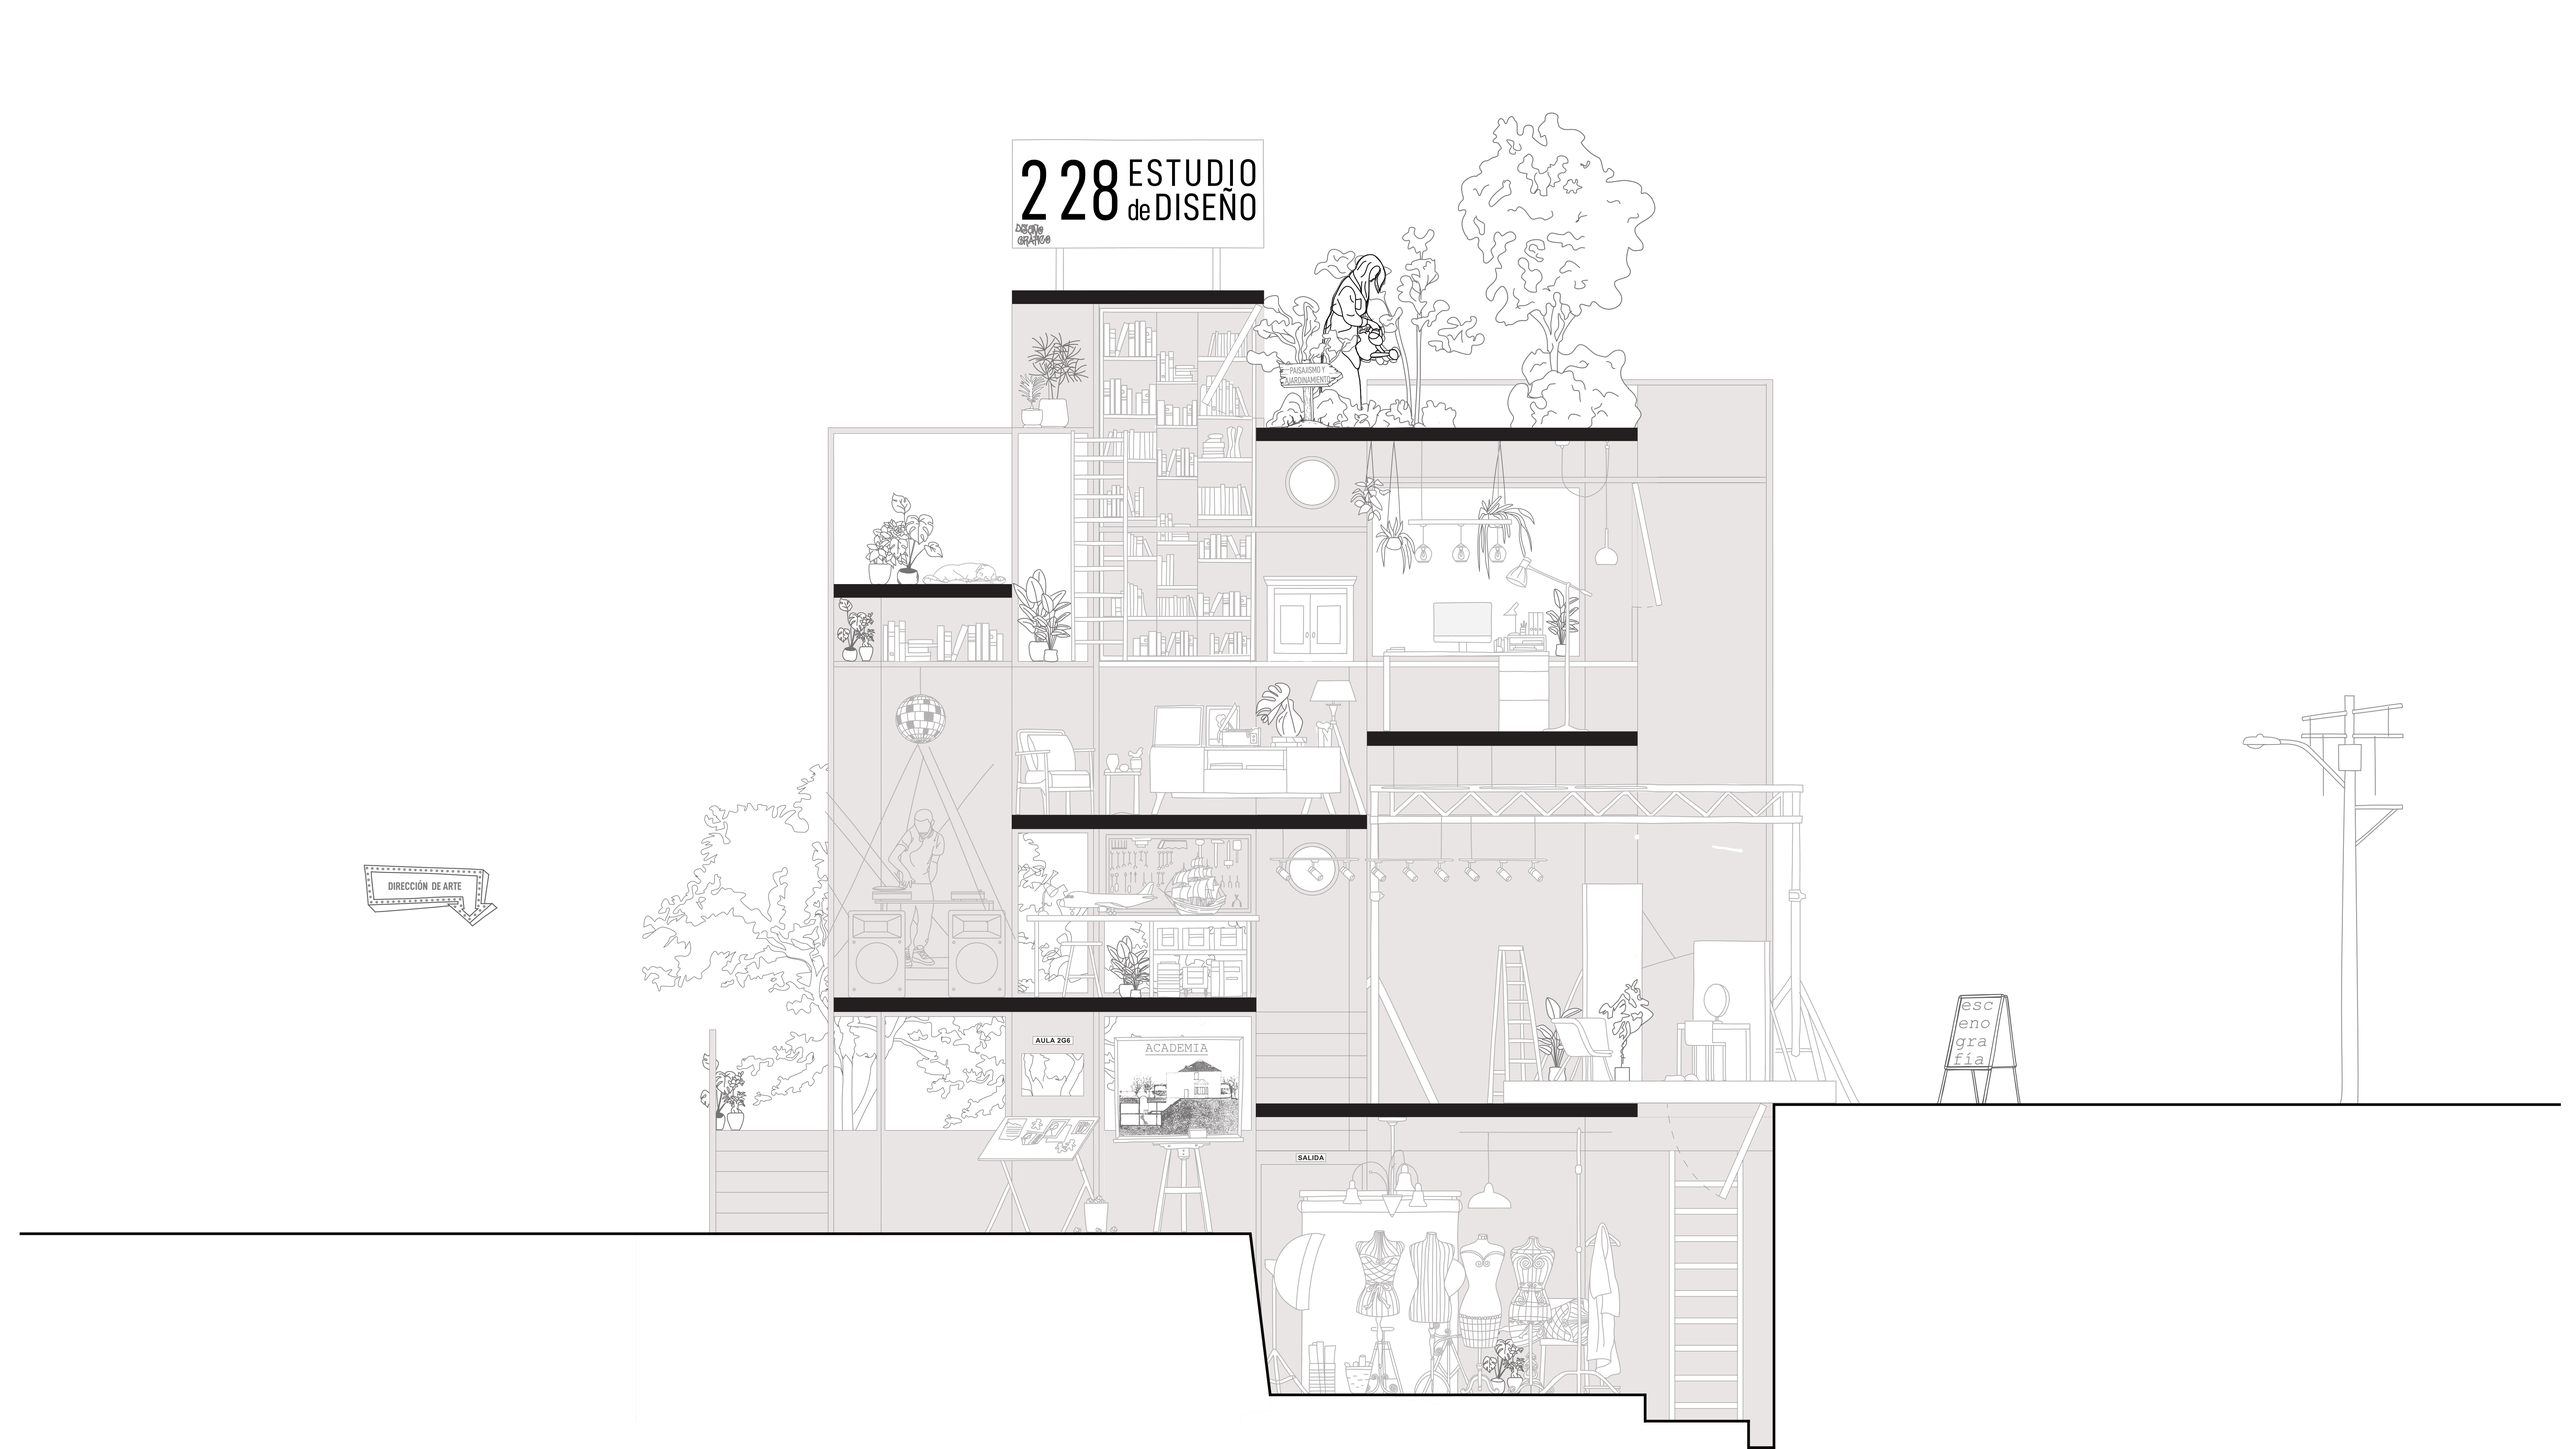
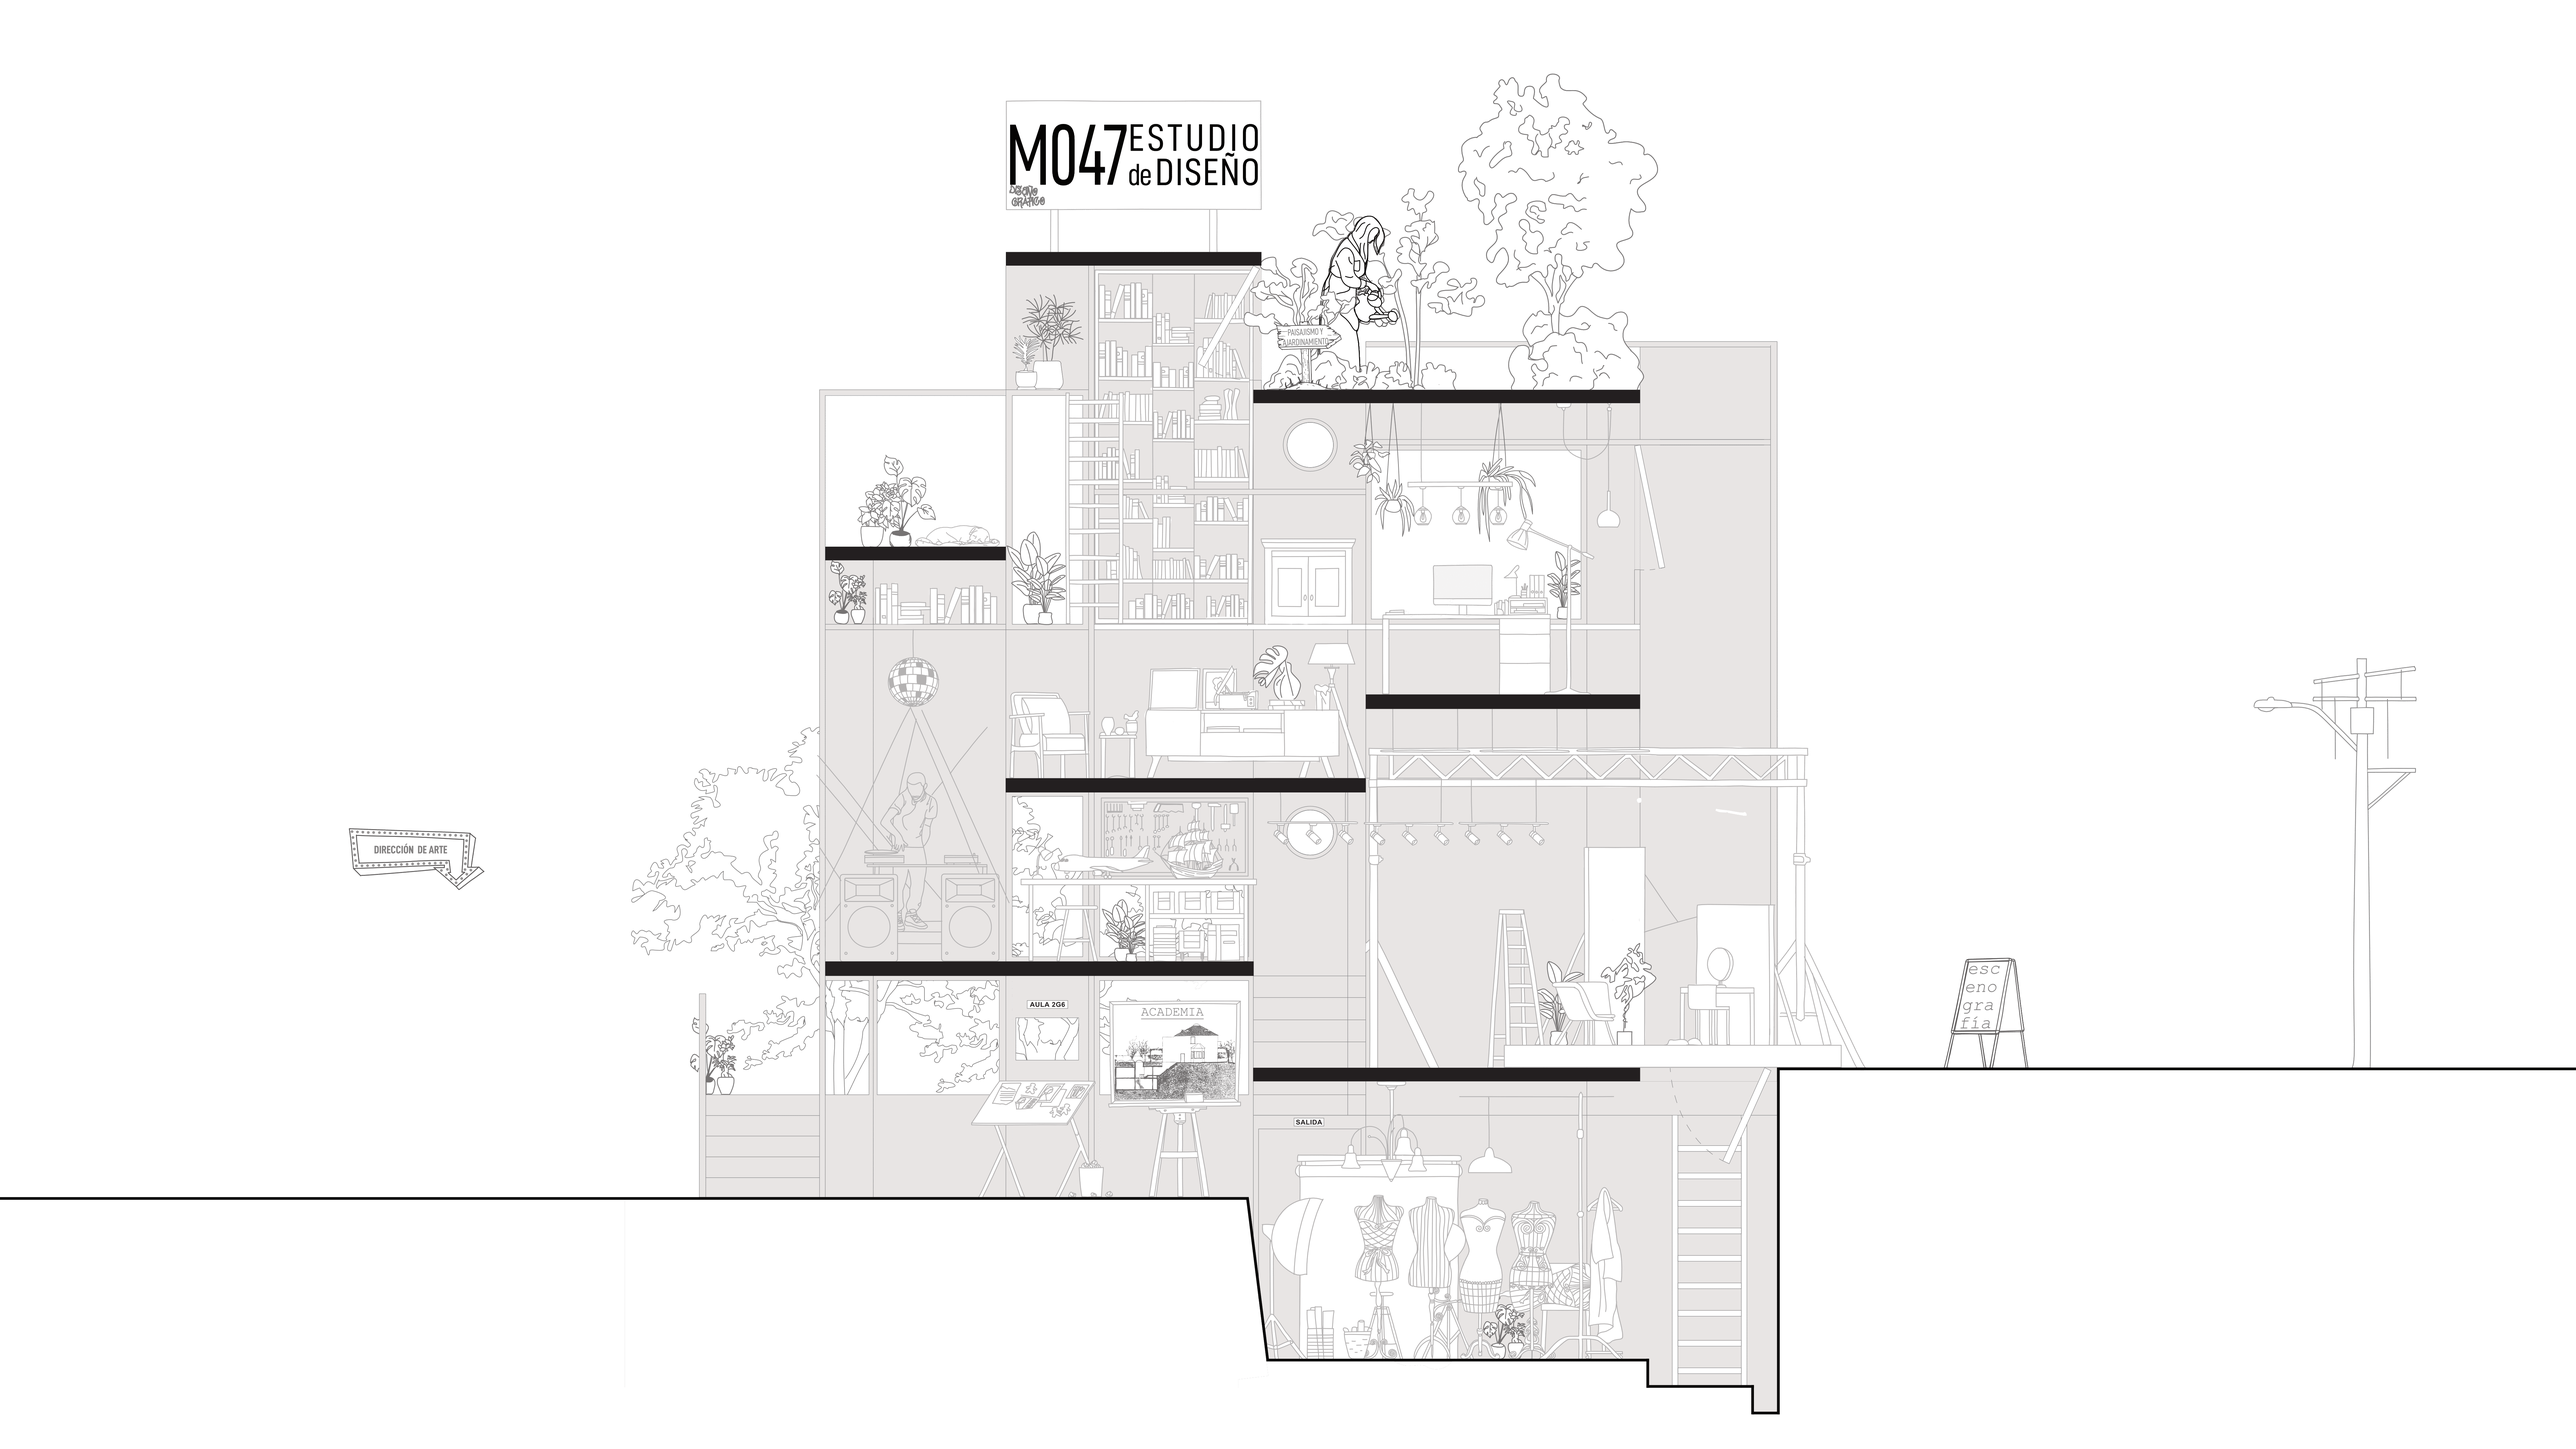
fondo

diff --git a/src/App.jsx b/src/App.jsx
@@ -1479,7 +1479,7 @@ export default function App() {
       onPointerLeave: handleOrdenadorLeave,
       src: ordenadorFrames[0],
       alt: 'Ordenador animado',
-      style: { left: '57%', top: '52.9%', width: '6.5%' },
+      style: { left: '57%', top: '53%', width: '6.5%' },
     },
     {
       id: 'arbol',
@@ -1504,7 +1504,7 @@ export default function App() {
       imageRef: grafitiImageRef,
       src: grafitiFrames[0],
       alt: 'Grafiti animado',
-      style: { left: '45.2%', top: '16.7%', width: '9%' },
+      style: { left: '45.2%', top: '17.1%', width: '9%' },
     },
     {
       id: 'bibliotecario',
@@ -1549,7 +1549,7 @@ export default function App() {
       onPointerLeave: handleJardineroLeave,
       src: jardineroFrames[0],
       alt: 'Jardinero animado',
-      style: { left: '63.3%', top: '24.6%', width: '12.4%' },
+      style: { left: '63.3%', top: '24.8%', width: '12.4%' },
     },
     {
       id: 'jardinera',
@@ -1564,7 +1564,7 @@ export default function App() {
       onPointerLeave: handleJardineraLeave,
       src: jardineraFrames[0],
       alt: 'Jardinera animada',
-      style: { left: '59%', top: '28.8%', width: '7.3%' },
+      style: { left: '59%', top: '29.2%', width: '7.3%' },
     },
   ]
 
@@ -1585,7 +1585,7 @@ export default function App() {
       imageClassName: 'spray-frame',
       src: '/Frames/imoviles/spray/spray.png',
       alt: 'Spray',
-      style: { left: '37.5%', top: '15.5%', width: '9%' },
+      style: { left: '37.5%', top: '15.9%', width: '9%' },
     },
     {
       id: 'persona-escaleras',
@@ -1593,7 +1593,7 @@ export default function App() {
       imageClassName: 'persona-escaleras-frame',
       src: '/Frames/imoviles/personaje_escaleras/persona_1.png',
       alt: 'Persona en las escaleras',
-      style: { left: '67%', top: '94%', width: '4%' },
+      style: { left: '67%', top: '93.3%', width: '4%' },
     },
     {
       id: 'personajes-fiesta',
@@ -1609,7 +1609,7 @@ export default function App() {
       imageClassName: 'maleta-frame',
       src: '/Frames/imoviles/maleta/maleta.png',
       alt: 'Maleta',
-      style: { left: '25.7%', top: '73.8%', width: '3.1%' },
+      style: { left: '25.7%', top: '73.6%', width: '3.1%' },
     },
     {
       id: 'fumador',
@@ -1617,7 +1617,7 @@ export default function App() {
       imageClassName: 'fumador-frame',
       src: '/Frames/imoviles/fumador/fumador.png',
       alt: 'Fumador',
-      style: { left: '29%', top: '28.6%', width: '4%' },
+      style: { left: '29%', top: '28.8%', width: '4%' },
     },
     {
       id: 'telefono',
@@ -1645,7 +1645,7 @@ export default function App() {
       imageRef: parejaImageRef,
       src: parejaFrames[0],
       alt: 'Pareja animada',
-      style: { left: '66%', top: '69%', width: '8%' },
+      style: { left: '66%', top: '68.9%', width: '8%' },
     },
     {
       id: 'personaje-microfono',
@@ -1653,7 +1653,7 @@ export default function App() {
       imageClassName: 'personaje-microfono-frame',
       src: '/Frames/imoviles/personaje_microfono/personaje.png',
       alt: 'Personaje con microfono',
-      style: { left: '54%', top: '60.6%', width: '5.3%' },
+      style: { left: '54%', top: '60.5%', width: '5.3%' },
     },
     {
       id: 'tablero',
@@ -1661,7 +1661,7 @@ export default function App() {
       imageClassName: 'tablero-frame',
       src: '/Frames/imoviles/tablero/tablero.png',
       alt: 'Tablero',
-      style: { left: '33.4%', top: '72%', width: '4.8%', zIndex: 120 },
+      style: { left: '33.4%', top: '71.7%', width: '4.8%', zIndex: 120 },
     },
     {
       id: 'humo',
@@ -1706,7 +1706,7 @@ export default function App() {
       onPointerLeave: handleHombreSentadoLeave,
       src: hombreSentadoFrames[0],
       alt: 'Hombre sentado animado',
-      style: { left: '38.2%', top: '78%', width: '6.6%' },
+      style: { left: '38.2%', top: '77.7%', width: '6.6%' },
     },
     {
       id: 'mujer-sentada',
@@ -1721,7 +1721,7 @@ export default function App() {
       onPointerLeave: handleMujerSentadaLeave,
       src: mujerSentadaFrames[0],
       alt: 'Mujer sentada animada',
-      style: { left: '34%', top: '78.2%', width: '6.3%', zIndex: 130 },
+      style: { left: '34%', top: '77.9%', width: '6.3%', zIndex: 130 },
     },
     {
       id: 'profe',
@@ -1736,7 +1736,7 @@ export default function App() {
       onPointerLeave: handleProfeLeave,
       src: profeFrames[0],
       alt: 'Profe animado',
-      style: { left: '46%', top: '76.9%', width: '7.9%' },
+      style: { left: '46%', top: '76.6%', width: '7.9%' },
     },
     {
       id: 'columpio',
@@ -1768,7 +1768,7 @@ export default function App() {
     onPointerLeave: handleVanLeave,
     src: vanFrames[0],
     alt: 'Furgo animada',
-    style: { left: '17%', top: '74.1%', width: '24%' },
+    style: { left: '17%', top: '73.8%', width: '24%' },
   }
 
   const birdCharacter = {
@@ -1924,9 +1924,9 @@ export default function App() {
     alt: 'Capa central de la casa',
     className: 'absolute left-1/2 top-1/2 w-full object-contain',
     style: {
-      left: '49.9%',
-      top: '57.9%',
-      width: '98.2%',
+      left: '50%',
+      top: '60.8%',
+      width: '97%',
       transform: 'translate(-50%, -50%) scale(1.2)',
     },
   }
